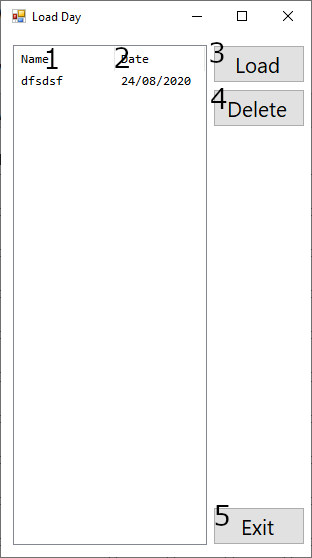
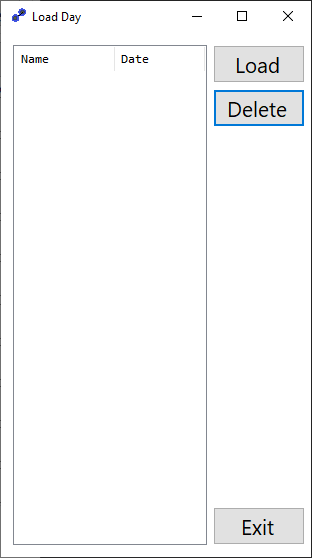
Fixed error with deleting a day from LoadDay form
Adding icon file also
Changing readme images
Adding icon file to forms

diff --git a/WorkoutLoggerUI/WorkoutViewerForm.Designer.cs b/WorkoutLoggerUI/WorkoutViewerForm.Designer.cs
@@ -28,6 +28,7 @@
         /// </summary>
         private void InitializeComponent()
         {
+            System.ComponentModel.ComponentResourceManager resources = new System.ComponentModel.ComponentResourceManager(typeof(WorkoutViewerForm));
             this.comboBoxLoad = new System.Windows.Forms.ComboBox();
             this.buttonLoadTemplate = new System.Windows.Forms.Button();
             this.textBoxTemplate = new System.Windows.Forms.TextBox();
@@ -1052,9 +1053,9 @@
             // buttonLoadDay
             // 
             this.buttonLoadDay.Font = new System.Drawing.Font("Segoe UI", 14.25F, System.Drawing.FontStyle.Regular, System.Drawing.GraphicsUnit.Point, ((byte)(0)));
-            this.buttonLoadDay.Location = new System.Drawing.Point(110, 63);
+            this.buttonLoadDay.Location = new System.Drawing.Point(125, 63);
             this.buttonLoadDay.Name = "buttonLoadDay";
-            this.buttonLoadDay.Size = new System.Drawing.Size(114, 37);
+            this.buttonLoadDay.Size = new System.Drawing.Size(99, 37);
             this.buttonLoadDay.TabIndex = 114;
             this.buttonLoadDay.Text = "Load Day";
             this.buttonLoadDay.UseVisualStyleBackColor = true;
@@ -1400,6 +1401,7 @@
             this.Controls.Add(this.groupBox13);
             this.Font = new System.Drawing.Font("Segoe UI", 15.75F, System.Drawing.FontStyle.Regular, System.Drawing.GraphicsUnit.Point, ((byte)(0)));
             this.FormBorderStyle = System.Windows.Forms.FormBorderStyle.Fixed3D;
+            this.Icon = ((System.Drawing.Icon)(resources.GetObject("$this.Icon")));
             this.Margin = new System.Windows.Forms.Padding(6, 7, 6, 7);
             this.Name = "WorkoutViewerForm";
             this.Text = "Workout Logger";

diff --git a/WorkoutLoggerUI/LoadDayForm.Designer.cs b/WorkoutLoggerUI/LoadDayForm.Designer.cs
@@ -28,6 +28,7 @@
         /// </summary>
         private void InitializeComponent()
         {
+            System.ComponentModel.ComponentResourceManager resources = new System.ComponentModel.ComponentResourceManager(typeof(LoadDayForm));
             this.listViewDays = new System.Windows.Forms.ListView();
             this.columnName = ((System.Windows.Forms.ColumnHeader)(new System.Windows.Forms.ColumnHeader()));
             this.columnDate = ((System.Windows.Forms.ColumnHeader)(new System.Windows.Forms.ColumnHeader()));
@@ -105,6 +106,7 @@
             this.Controls.Add(this.listViewDays);
             this.Font = new System.Drawing.Font("Segoe UI", 15.75F, System.Drawing.FontStyle.Regular, System.Drawing.GraphicsUnit.Point, ((byte)(0)));
             this.FormBorderStyle = System.Windows.Forms.FormBorderStyle.Fixed3D;
+            this.Icon = ((System.Drawing.Icon)(resources.GetObject("$this.Icon")));
             this.Margin = new System.Windows.Forms.Padding(6, 7, 6, 7);
             this.Name = "LoadDayForm";
             this.Text = "Load Day";

diff --git a/WorkoutLoggerUI/LoadDayForm.cs b/WorkoutLoggerUI/LoadDayForm.cs
@@ -50,15 +50,13 @@ namespace WorkoutLoggerUI
 
         private void buttonDeleteDay_Click(object sender, EventArgs e)
         {
-            //TODO - Change this in future for BIN
             string deleteTemplate = $"{ listViewDays.SelectedItems[0].Text }{ Utility.FileExtension() }";
             string path = ConfigurationManager.AppSettings["filePath"];
-            //TODO - Change this in future for BIN
             IEnumerable<string> files = Directory.GetFiles(path, $"*{ Utility.FileExtension() }", SearchOption.TopDirectoryOnly);
 
             foreach (string file in files)
             {
-                if (file.Contains(deleteTemplate)) File.Delete(file); break;
+                if (file.Contains(deleteTemplate)) { File.Delete(file); break; }
             }
 
             foreach(ListViewItem eachItem in listViewDays.SelectedItems)

diff --git a/WorkoutLoggerUI/WorkoutViewerForm.cs b/WorkoutLoggerUI/WorkoutViewerForm.cs
@@ -96,10 +96,8 @@ namespace WorkoutLoggerUI
             // loaad in the path, then get all files and and then delete the first one that 
             // matches the text for the template
             // then remove that option from the combobox
-            //TODO - Change this in future for BIN
             string deleteTemplate = $"{ comboBoxLoad.Text }{ Utility.FileExtension() }";
             string path = ConfigurationManager.AppSettings["tfilePath"];
-            //TODO - Change this in future for BIN
             IEnumerable<string> files = Directory.GetFiles(path, $"*{ Utility.FileExtension() }", SearchOption.TopDirectoryOnly);
 
 
